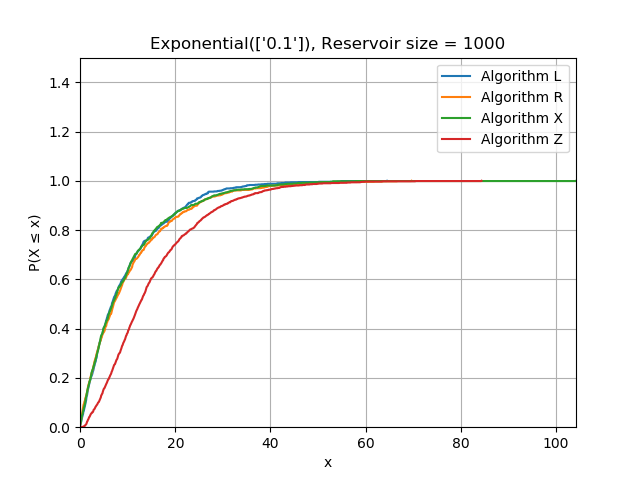
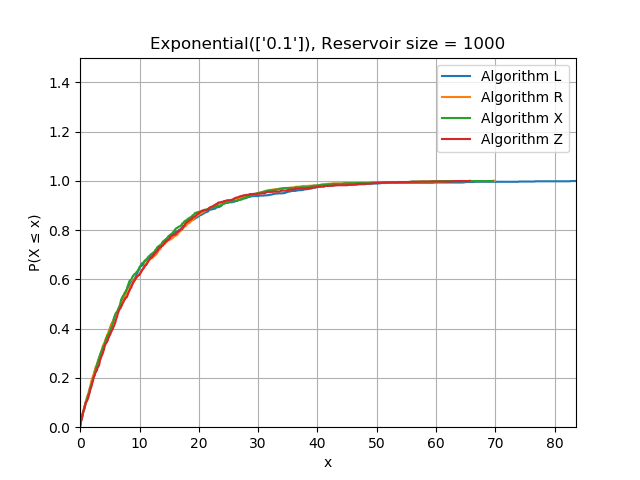
update with fix to algo Z

diff --git a/_posts/2020-01-17-reservoir-sampling.md b/_posts/2020-01-17-reservoir-sampling.md
@@ -487,7 +487,8 @@ public class AlgorithmX {
 
 ## Algorithm Z
 ```java
-public class AlgorithmZ {
+public class AlgorithmZ {    
+
     private final double[] reservoir;
     private long counter;
     private long next;
@@ -496,7 +497,8 @@ public class AlgorithmZ {
     public AlgorithmZ(int size, int threshold) {
         this.reservoir = new double[size];
         this.threshold = threshold;
-        next = reservoir.length + nextSkip();
+        next = reservoir.length;
+        skip();
     }
 
     public void add(double value) {
@@ -506,41 +508,46 @@ public class AlgorithmZ {
             if (next == counter) {
                 int position = ThreadLocalRandom.current().nextInt(0, reservoir.length);
                 reservoir[position] = value;
-                next += nextSkip();
+                skip();
             }
         }
         ++counter;
     }
 
-    private long nextSkip() {
+    private void skip() {
         if (counter <= threshold * reservoir.length) {
-            return nextSkipLinearSearch();
-        }
-        double c = (double)(counter + 1)/(counter - reservoir.length + 1);
-        while (true) {
-            double u = ThreadLocalRandom.current().nextDouble();
-            double x = counter * (Math.exp(ThreadLocalRandom.current().nextDouble() / reservoir.length) - 1);
-            long s = (long)x;
-            double g = (reservoir.length)/(counter + x)*Math.pow(counter/(counter + x), reservoir.length);
-            double h = ((double) reservoir.length / (counter + 1))
-                    * Math.pow((double) (counter - reservoir.length + 1) / (counter + s - reservoir.length + 1), reservoir.length + 1);
-            if (u <= (c * g)/h) {
-                return Math.max(1, s);
+            linearSearch();
+        } else {
+            double c = (double) (counter + 1) / (counter - reservoir.length + 1);
+            double w = exp(-log(ThreadLocalRandom.current().nextDouble()) / reservoir.length);
+            long s;
+            while (true) {
+                double u = ThreadLocalRandom.current().nextDouble();
+                double x = counter * (w - 1D);
+                s = (long) x;
+                double g = (reservoir.length) / (counter + x) * Math.pow(counter / (counter + x), reservoir.length);
+                double h = ((double) reservoir.length / (counter + 1))
+                        * Math.pow((double) (counter - reservoir.length + 1) / (counter + s - reservoir.length + 1), reservoir.length + 1);
+                if (u <= (c * g) / h) {
+                    break;
+                }
+                // slow path, need to check f
+                double f = 1;
+                for (int i = 0; i <= s; ++i) {
+                    f *= (double) (counter - reservoir.length + i) / (counter + 1 + i);
+                }
+                f *= reservoir.length;
+                f /= (counter - reservoir.length);
+                if (u <= (c * g) / f) {
+                    break;
+                }
+                w = exp(-log(ThreadLocalRandom.current().nextDouble()) / reservoir.length);
             }
-            // slow path, need to check f
-            double f = 1;
-            for (int i = 0; i <= s; ++i) {
-                f *= (double)(counter - reservoir.length + i)/(counter + 1 + i);
-            }
-            f *= reservoir.length;
-            f /= (counter - reservoir.length);
-            if (u <= (c * g)/f) {
-                return Math.max(1, s);
-            }
+            next += s + 1;
         }
     }
 
-    private long nextSkipLinearSearch() {
+    private void linearSearch() {
         long s = 0;
         double u = ThreadLocalRandom.current().nextDouble();
         double quotient = (double)(counter + 1 - reservoir.length)/(counter + 1);
@@ -550,7 +557,7 @@ public class AlgorithmZ {
             ++s;
             ++i;
         } while (quotient > u);
-        return s;
+        next += s + 1;
     }
 }
 ```
